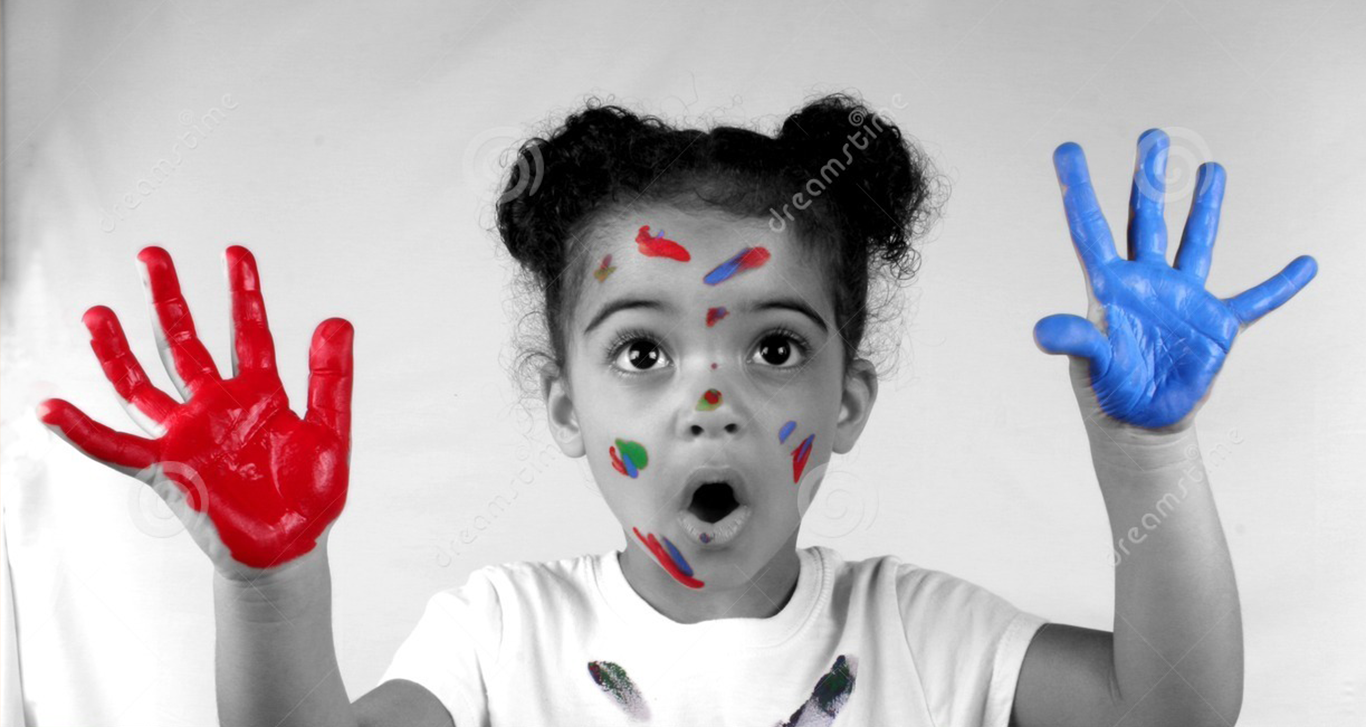
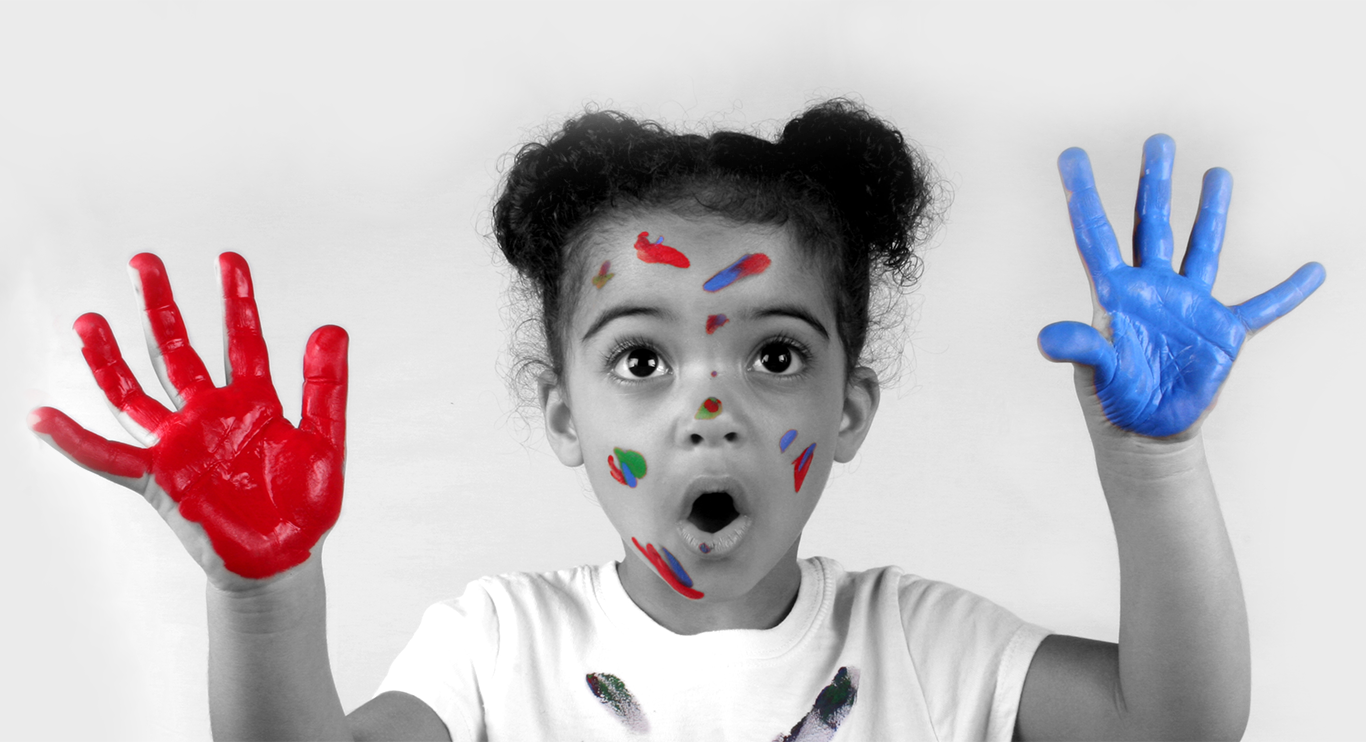
mo better

diff --git a/css/main.css b/css/main.css
@@ -1,6 +1,11 @@
 
 
 /********** base styles ************/
+
+section {
+	margin: 0;
+	padding: 0;
+}
 body {
 	font-family: 'Open Sans',sans-serif;
 	font-weight: 600;
@@ -68,7 +73,7 @@ header {
 nav {
 	float: left;
 	padding-top: 15px;
-	padding-left: 80px;
+	padding-left: 30px;
 }
 
 nav ul li {
@@ -85,7 +90,7 @@ nav ul li a {
 
 header #header-icons {
 	float: right;
-	padding-right: 80px;
+	padding-right: 50px;
 }
 
 header #header-icons img {
@@ -113,48 +118,17 @@ header #hand-4 {
 
 
 
-/******* Footer ***********/
-footer {
-	position: fixed;
-	bottom: 0px;
-	width: 100vw;
-}
-
-#contact-info {
-	float: left;
-	margin-left: 50px;
-}
-
-#address {
-	float: right;
-	margin-right: 50px;
-}
-
-footer ul li {
-	font-family: 'Open sans', sans-serif;
-	font-size: 20px;
-
-	list-style-type: none;
-}
-
-footer ul li a {
-  text-decoration: none;
-}
-
-footer p {
-	text-align: right;
-	font-size: 20px;
-}
 
 
 
 
 /********** HOME ***********/
 #home {
+	height: 668px;
 	background: url("../img/kids-painting-cover.png") no-repeat;
 	background-position: center;
-	background-size: contain;
-	padding-top: 100px;
+	background-size: 1200px;
+	margin-top: 100px;
 }
 
 #home #title-start {
@@ -182,7 +156,8 @@ footer p {
 /********** PICTURE ***********/
 
 #page-2 {
-	background-color: #e9e9e9;
+	background-color: #ebebeb;
+	height: 668px;
 }
 
 #page-2 img {
@@ -196,14 +171,50 @@ footer p {
 
 #about img {
 	display: block;
-	margin: 100px auto 0 auto;
+	margin: 60px auto 0 auto;
 	width: 50%;
+}
+
+#about h2, #about h3, #about p {
+	padding-right: 125px;
 }
 
 #about h2 {
 	margin-top: 100px;
 }
 
-#about p {
+
+
+/******* Footer ***********/
+footer {
+	position: fixed;
+	bottom: 0px;
+	width: 100vw;
+}
+
+#contact-info {
+	float: left;
+	margin-left: 20px;
+}
+
+#address {
+	float: right;
 	padding-right: 80px;
+}
+
+footer ul li {
+	font-family: 'Open sans', sans-serif;
+	font-size: 20px;
+
+	list-style-type: none;
+}
+
+footer ul li a {
+  text-decoration: none;
+	color: #541022;
+}
+
+footer p {
+	text-align: right;
+	font-size: 20px;
 }

diff --git a/index.html b/index.html
@@ -58,9 +58,9 @@
         <div class="half-width">
           <img src="./img/girl-painting.png" alt="Girl Painting">
         </div>
-        <div class="half-width">
+        <div class="half-width" id="story">
           <h2>Our Story</h2>
-          <p>Our founder saw that the kids in her grade school class were masters at mess making. This expertise caused much consternation with the parents when one teacher cannot take 15 minutes to wash every kids hands before school is over. This got her thinking on how to run her class smooth, keep parents happy, and still manage many fun (and messy) activites. Add the health concern of snack time and an remedied is mandatory.<br>Enter Artchla gloves, the peel and throw away clean-up.</p>
+          <p>Our founder saw that the kids in her grade school class were masters at mess making. This expertise caused much consternation with the parents when one teacher cannot take 15 minutes to wash every kids hands before school is over. This got her thinking on how to run her class smooth, keep parents happy, and still manage many fun (and messy) activites. Add the health concern of snack time and a remedied is mandatory.<br>Enter Artchla gloves, the peel and throw away clean-up.</p>
           <h3>Artchla Gloves make life easy.</h3>
         </div>
       </div>
@@ -70,16 +70,17 @@
     <!-- ************************************************************ -->
 
     <footer>
-      <div class="full-width-center">
+      <div>
       <div id="contact-info">
         <ul>
-          <li>503-490-8966</li>
-          <li>ArtchlaPatroni@comcast.net</li>
+          <li><a href="tel:1-503-490-8966">1-503-490-8966</a></li>
+          <li><a href="mailto:artchlapatroni@comcast.net">ArtchlaPatroni@comcast.net</a></li>
         </ul>
       </div>
       <div id="address">
         <p>1169 N.E. 65th Avenue<br>Portland, OR 97213</p>
       </div>
+      <div style="clear: both"></div>
     </div>
     </footer>
     <!-- ************************************************************ -->
